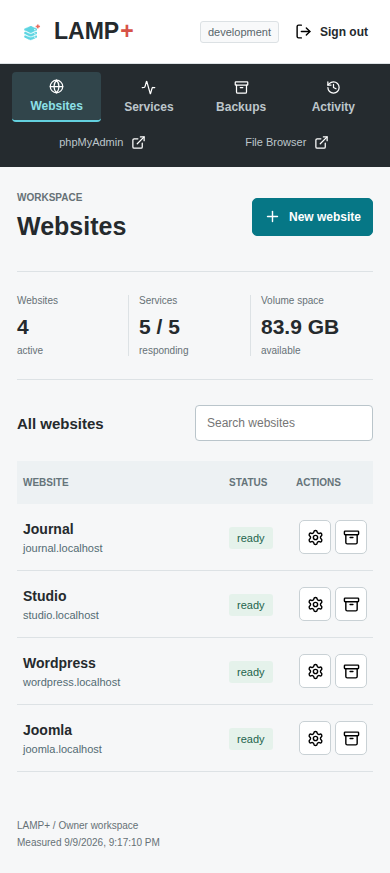
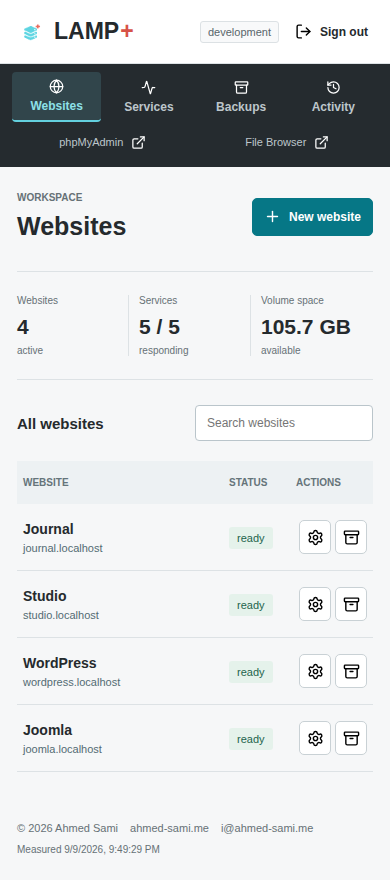
Publish branded project overview, Docker Hub Markdown and verified page gallery

diff --git a/docs/PROJECT.md b/docs/PROJECT.md
@@ -1,0 +1,99 @@
+# LAMP+ Project Overview
+
+<img src="../assets/logo.png" alt="LAMP+ logo" width="112">
+
+![LAMP+ banner](../assets/banner.png)
+
+## Description
+
+LAMP+ brings PHP website development and small-site administration into one
+Ubuntu container. Apache, PHP-FPM and MariaDB run alongside an authenticated
+owner dashboard, phpMyAdmin and FileBrowser Quantum. Websites have their own
+database credentials, document roots and PHP settings.
+
+Copyright (c) 2026 **Ahmed Sami**. Developed and maintained by Ahmed Sami.
+[i@ahmed-sami.me](mailto:i@ahmed-sami.me) | [ahmed-sami.me](https://ahmed-sami.me/).
+
+Licensed under GPLv3, with component licenses documented
+in [third-party notices](../THIRD_PARTY_NOTICES.md).
+
+**Release status:** the v2 source is available for review and testing. A stable
+Docker image has not been published. Native AMD64 and ARM64 acceptance results
+are linked in [release readiness](STATUS.md).
+
+[Source code](https://github.com/ahmed-sami94/LAMP-) |
+[Docker Hub repository](https://hub.docker.com/r/ahmedsamigmail/lampplus) |
+[Setup and configuration](../README.md)
+
+## What Is Included
+
+| Area | Capabilities |
+| --- | --- |
+| Websites | Multiple hostnames, separate databases and PHP-FPM pools |
+| CMS setup | WordPress and Joomla installers with pinned package checksums |
+| Administration | Hashed passwords, login throttling, CSRF checks and private state |
+| PHP | Per-site memory, upload and execution limits; Composer and WP-CLI |
+| Recovery | Manual and daily backups, retention and confirmed restoration |
+| Operations | Supervised services, health checks, activity history and container metrics |
+| Tools | Protected phpMyAdmin and FileBrowser Quantum on the admin hostname |
+| Hosting | Caddy HTTPS example, mounted secrets and persistent volumes |
+
+LAMP+ is for one trusted owner. It is not a tenant-isolation platform: uploaded
+PHP shares the container, and restoring a site briefly stops PHP for all sites.
+Keep off-host backups and use only trusted applications.
+
+## Page Gallery
+
+These images show the running application with synthetic websites, not mockups.
+See [capture details](screenshots/README.md) for the source commit and CI evidence.
+
+### Websites
+
+Review websites, application types, status and per-site actions.
+
+![Websites dashboard](screenshots/dashboard-desktop.png)
+
+### Services
+
+Inspect service health and container-scoped resource measurements.
+
+![Services page](screenshots/services-desktop.png)
+
+### Backups
+
+Review recovery points and select an explicit site for restoration.
+
+![Backups page](screenshots/backups-desktop.png)
+
+### Activity
+
+Follow provisioning, configuration and backup operations.
+
+![Activity page](screenshots/activity-desktop.png)
+
+### Website Setup
+
+Choose an empty site, WordPress or Joomla. CMS credentials are entered privately;
+the screenshot leaves all credential fields empty.
+
+![WordPress website setup form](screenshots/website-setup-desktop.png)
+
+### Sign In
+
+Administration requires the owner's configured account; there is no shared password.
+
+![Owner sign-in page](screenshots/login-desktop.png)
+
+### Mobile And Tablet
+
+[Mobile dashboard](screenshots/dashboard-mobile.png) |
+[Tablet dashboard](screenshots/dashboard-tablet.png)
+
+## Start And Contribute
+
+Follow the [README quick start](../README.md#local-development) to build locally.
+For domains and TLS, use the [HTTPS hosting guide](HOSTING.md). Legacy installations
+require file transfer and logical SQL export/import into fresh volumes.
+
+Read [contribution guidance](../CONTRIBUTING.md) before submitting changes.
+Report security issues privately using [SECURITY.md](../SECURITY.md).

diff --git a/docs/DOCKER_HUB.md b/docs/DOCKER_HUB.md
@@ -1,0 +1,61 @@
+# LAMP+
+
+<img src="https://raw.githubusercontent.com/ahmed-sami94/LAMP-/release/2.0.0/assets/logo.png" alt="LAMP+ logo" width="112">
+
+![LAMP+ banner](https://raw.githubusercontent.com/ahmed-sami94/LAMP-/release/2.0.0/assets/banner.png)
+
+**One container for your PHP workspace.** LAMP+ combines Ubuntu, Apache, PHP-FPM
+and MariaDB with a protected owner dashboard, phpMyAdmin and FileBrowser Quantum.
+
+**v2 image publication is pending.** The source is available for review and local
+builds. Do not assume that `2.0.0` or `latest` exists until the release is announced.
+
+## Included In v2
+
+- Multiple websites with separate databases, generated credentials and PHP-FPM pools.
+- WordPress and Joomla setup using pinned, checksum-verified packages.
+- Per-site PHP limits, Composer and WP-CLI access.
+- Manual and daily backups, retention and confirmed restoration.
+- Supervised services, persistent state, health checks and container metrics.
+- Protected database and file tools; only Apache is exposed by default.
+- A Caddy HTTPS example with persistent certificates and mounted secrets.
+
+This is a workspace for one trusted owner, not isolated hosting for unrelated
+tenants. Uploaded PHP shares the container. Use trusted code and keep off-host backups.
+
+## Screenshots
+
+![Websites dashboard](https://raw.githubusercontent.com/ahmed-sami94/LAMP-/release/2.0.0/docs/screenshots/dashboard-desktop.png)
+
+![Services page](https://raw.githubusercontent.com/ahmed-sami94/LAMP-/release/2.0.0/docs/screenshots/services-desktop.png)
+
+![WordPress setup](https://raw.githubusercontent.com/ahmed-sami94/LAMP-/release/2.0.0/docs/screenshots/website-setup-desktop.png)
+
+[Full page gallery and mobile captures](https://github.com/ahmed-sami94/LAMP-/blob/release/2.0.0/docs/PROJECT.md)
+
+Screenshots come from a running, disposable CI container with synthetic websites
+and no visible credentials. Resource measurements vary between runs.
+
+## Build And Configure
+
+Follow the [README quick start](https://github.com/ahmed-sami94/LAMP-/blob/release/2.0.0/README.md#local-development).
+It requires Docker with Compose v2 and Linux containers. Configure a unique
+administrator password before the first boot; there are no shared default passwords.
+
+Preserve all four volumes: website content, MariaDB data, private application
+state and backups. A restart does not reset credentials. Legacy installations
+must migrate through file transfer and logical SQL export/import into fresh volumes.
+
+## Documentation
+
+- [Configuration, tools and backups](https://github.com/ahmed-sami94/LAMP-/blob/release/2.0.0/README.md)
+- [HTTPS and domains](https://github.com/ahmed-sami94/LAMP-/blob/release/2.0.0/docs/HOSTING.md)
+- [Verification and release status](https://github.com/ahmed-sami94/LAMP-/blob/release/2.0.0/docs/STATUS.md)
+- [Security reporting](https://github.com/ahmed-sami94/LAMP-/blob/release/2.0.0/SECURITY.md)
+- [Contributing](https://github.com/ahmed-sami94/LAMP-/blob/release/2.0.0/CONTRIBUTING.md)
+
+Copyright (c) 2026 **Ahmed Sami**. Developed and maintained by Ahmed Sami.
+[i@ahmed-sami.me](mailto:i@ahmed-sami.me) | [ahmed-sami.me](https://ahmed-sami.me/).
+
+LAMP+ is GPLv3; bundled components retain their own licenses.
+[Source and license notices](https://github.com/ahmed-sami94/LAMP-/tree/release/2.0.0)

diff --git a/docs/STATUS.md b/docs/STATUS.md
@@ -14,8 +14,8 @@ Do not use it for public hosting until the acceptance matrix and security scans 
 
 ## Verified baseline
 
-[Run 34405690365](https://github.com/ahmed-sami94/LAMP-/actions/runs/34405690365)
-passed on native amd64 and arm64 at commit `eb2c8e3`: build, 16 unit/security
+[Run 34408734668](https://github.com/ahmed-sami94/LAMP-/actions/runs/34408734668)
+passed on native amd64 and arm64 at commit `fbe9270`: build, 19 unit/security
 checks, two-site routing, database separation, file and SQL restoration,
 WordPress/Joomla setup, container recreation with persistent state, graceful
 shutdown, service failures, responsive screenshots, Caddy TLS verification,
@@ -24,16 +24,14 @@ scanning and high/critical image scanning. Live checks also cover persistent
 login throttling, actual PHP limits/environment isolation, scheduled retention,
 installer failure cleanup and non-destructive retry.
 
-Subsequent changes extend HTTPS scheme propagation and validate the distributed
-Compose files. The baseline is evidence for that commit, not a waiver for later changes.
+This run also verified HTTPS scheme propagation to website PHP, rejected forged
+scheme headers, and validated both distributed Compose examples. The baseline
+is evidence for that commit, not a waiver for later changes.
 
 ## Release blockers
 
-- Both architecture builds and all runtime tests must pass.
-- PHP 8.5 compatibility, especially phpMyAdmin, must be demonstrated.
-- Security scans, privilege separation, failure recovery, HTTPS proxy and browser
-  acceptance require completed evidence.
-- Updated screenshots and final documentation must match the accepted commit.
+- Subsequent changes must retain passing architecture, runtime, security and
+  browser checks; screenshots must identify their capture commit.
 - Docker Hub ownership is confirmed and its overview is published. Image-push
   authorization still needs secure configuration; web sign-in alone is insufficient.
 - Release-candidate acceptance precedes stable GitHub/Docker publication.

diff --git a/README.md b/README.md
@@ -1,5 +1,7 @@
 # LAMP+
 
+<img src="assets/logo.png" alt="LAMP+ logo" width="112">
+
 ![LAMP+ - Your PHP workspace. In one container.](assets/banner.png)
 
 An all-in-one Ubuntu container for PHP websites, with Apache, PHP-FPM, MariaDB,
@@ -10,6 +12,12 @@ See [release readiness](docs/STATUS.md). No stable v2 image is claimed here.
 
 Documentation: [HTTPS hosting](docs/HOSTING.md) | [Release procedure](docs/RELEASE.md)
 | [Changelog](CHANGELOG.md) | [Contributing](CONTRIBUTING.md)
+
+Project: [GitHub](https://github.com/ahmed-sami94/LAMP-) |
+[Docker Hub](https://hub.docker.com/r/ahmedsamigmail/lampplus) |
+[Project overview and page gallery](docs/PROJECT.md)
+
+[Docker Hub overview source](docs/DOCKER_HUB.md)
 
 ## What changes in v2
 
@@ -73,7 +81,8 @@ entries when your browser/OS does not resolve `*.localhost` to loopback.
 | `UBUNTU_IMAGE` | Exact base reference from the dependency lock |
 
 The provided development Compose uses an environment secret. A hosting example
-with mounted secrets and Caddy is being verified before release.
+with mounted secrets and Caddy is included. Both Compose examples and the Caddy
+HTTPS boundary are covered by native Linux CI; image publication is still pending.
 
 | Volume | Container path | Contents |
 | --- | --- | --- |
@@ -156,3 +165,10 @@ installed Ubuntu package versions are recorded at `/opt/lampplus/packages.txt`.
 Report vulnerabilities using [SECURITY.md](SECURITY.md). GPLv3 applies to LAMP+;
 bundled third-party components retain their own licenses. See
 [third-party notices](THIRD_PARTY_NOTICES.md) and [LICENSE](LICENSE).
+
+## Author
+
+Copyright (c) 2026 **Ahmed Sami**. Developed and maintained by Ahmed Sami.
+
+[i@ahmed-sami.me](mailto:i@ahmed-sami.me) |
+[ahmed-sami.me](https://ahmed-sami.me/) | [Copyright notice](COPYRIGHT.md)

diff --git a/docs/screenshots/README.md b/docs/screenshots/README.md
@@ -2,12 +2,18 @@
 
 These are actual Playwright captures of the running container, not design mockups.
 
-- Source: `eb2c8e39312ec0362b1d7fc0095878433ccc4c7a`
-- [Passing native Linux run](https://github.com/ahmed-sami94/LAMP-/actions/runs/34405690365)
-- Capture artifact: `verification-amd64`, ID `10125362380`
+- Source: `fbe92707de72cba0bac504a21daf963e94e1b1ec`
+- [Passing native Linux run](https://github.com/ahmed-sami94/LAMP-/actions/runs/34408734668)
+- Capture artifact: `verification-arm64`, ID `10126483315`
 - Desktop viewport: 1366 x 900; mobile: 390 x 844; tablet: 820 x 1180.
 - Full-page PNG captures include synthetic Studio, Journal, WordPress and Joomla
   websites. Credentials are generated privately and are not visible.
+- Pages: Websites, Services, Backups, Activity, WordPress setup and owner sign-in.
+- Dashboard captures include Ahmed Sami's copyright, email and website attribution.
+
+The Activity page includes intentionally rejected operations from security tests,
+such as invalid hostnames and unconfirmed restores. These demonstrate validation;
+the associated acceptance checks passed.
 
 Service and filesystem measurements are from the disposable CI container and
 its website-volume filesystem. They are not minimum hardware requirements or
